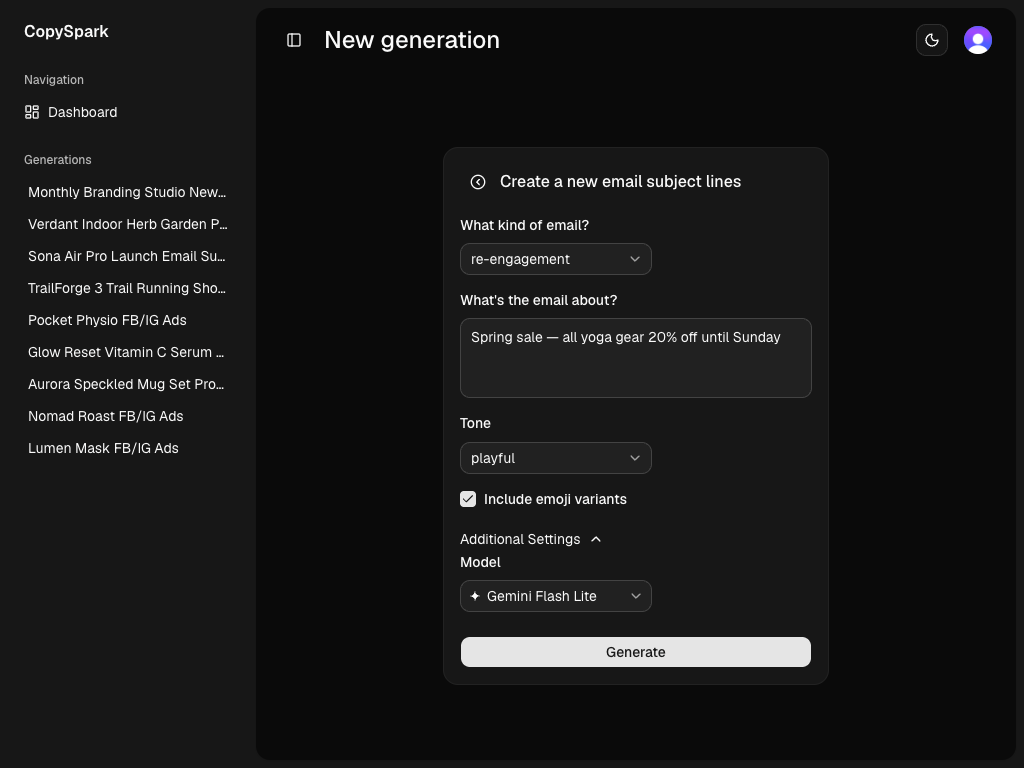
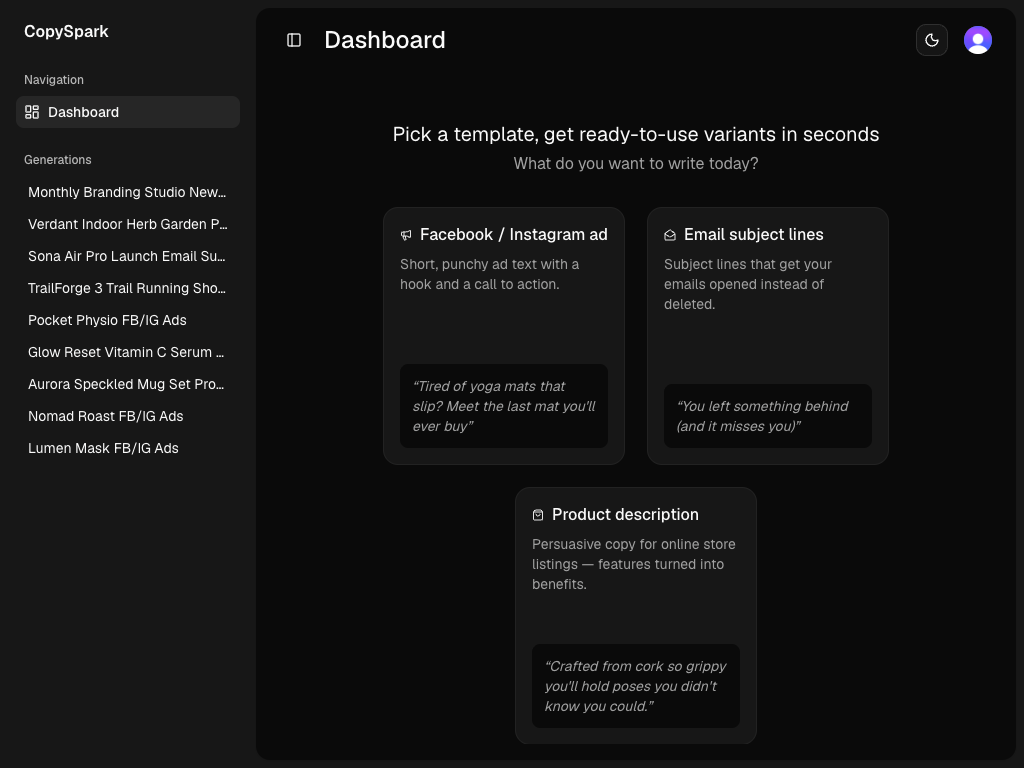
feat: replace dashboard with new generation

diff --git a/src/app/(private)/new/[templateId]/page.tsx b/src/app/(private)/new/[templateId]/page.tsx
@@ -2,6 +2,7 @@ import type { Metadata } from "next";
 import { GenerationFormWrapper } from "@/components/generation/generation-form-wrapper";
 import { CreateGenerationForm } from "@/components/forms";
 import { Template, TemplateId } from "@/constants/templates";
+import { capitalizeFirstLetter } from "@/lib/capitalize-first-letter";
 import { CircleChevronLeft } from "lucide-react";
 import { buttonVariants } from "@/components/ui/button";
 import {
@@ -27,7 +28,7 @@ export async function generateMetadata({
     : {};
 
   return {
-    title,
+    title: title && capitalizeFirstLetter(title),
     description,
   };
 }
@@ -58,7 +59,7 @@ export default async function Page({ params }: PageProps<"/new/[templateId]">) {
           <Tooltip>
             <TooltipTrigger>
               <Link
-                href="/dashboard"
+                href="/new"
                 className={buttonVariants({
                   variant: "ghost",
                   size: "icon-lg",
@@ -73,10 +74,7 @@ export default async function Page({ params }: PageProps<"/new/[templateId]">) {
             </TooltipContent>
           </Tooltip>
 
-          <p>
-            Create a new{" "}
-            <span className="inline-block first-letter:lowercase">{title}</span>
-          </p>
+          <p>New {title}</p>
         </>
       }
     >

diff --git a/src/constants/templates.ts b/src/constants/templates.ts
@@ -39,6 +39,9 @@ function defineTemplate<
   TVariant extends z.ZodObject,
 >(config: {
   id: TTemplateId;
+  // Stored in its mid-sentence form ("email subject lines", but "Facebook /
+  // Instagram ad" — the capital there is the proper noun, not sentence case).
+  // Render standalone titles through `capitalizeFirstLetter`.
   title: string;
   description: string;
   example: string;
@@ -82,7 +85,7 @@ export const Template = {
   }),
   [TemplateId.emailSubject]: defineTemplate({
     id: TemplateId.emailSubject,
-    title: "Email subject lines",
+    title: "email subject lines",
     description:
       "Subject lines that get your emails opened instead of deleted.",
     example: "You left something behind (and it misses you)",
@@ -96,7 +99,7 @@ export const Template = {
   }),
   [TemplateId.productDescription]: defineTemplate({
     id: TemplateId.productDescription,
-    title: "Product description",
+    title: "product description",
     description:
       "Persuasive copy for online store listings — features turned into benefits.",
     example:

diff --git a/src/components/generation/generation-dialog-provider.tsx b/src/components/generation/generation-dialog-provider.tsx
@@ -116,9 +116,10 @@ export function GenerationDialogProvider({
   children: ReactNode;
 }) {
   // The provider spans the whole private group, so a target has to remember which
-  // route opened it — otherwise an open dialog would follow the user to the dashboard.
-  // Tagging and deriving beats clearing it in an effect: a regenerate refreshes the
-  // route without touching the pathname, which is exactly the case that must survive.
+  // route opened it — otherwise an open dialog would follow the user to the initial
+  // page. Tagging and deriving beats clearing it in an effect: a regenerate refreshes
+  // the route without touching the pathname, which is exactly the case that must
+  // survive.
   const pathname = usePathname();
 
   const [storedTarget, setStoredTarget] = useState<

diff --git a/src/app/(private)/new/page.tsx b/src/app/(private)/new/page.tsx
@@ -9,6 +9,7 @@ import {
   CardTitle,
 } from "@/components/ui/card";
 import { Template } from "@/constants/templates";
+import { capitalizeFirstLetter } from "@/lib/capitalize-first-letter";
 import Link from "next/link";
 
 const templates = Object.values(Template);
@@ -33,7 +34,7 @@ export default function Page() {
                   <CardTitle className="flex items-center gap-2">
                     <Icon className="text-primary w-3 h-3 shrink-0" />
 
-                    <p>{template.title}</p>
+                    <p>{capitalizeFirstLetter(template.title)}</p>
                   </CardTitle>
 
                   <CardDescription>{template.description}</CardDescription>

diff --git a/src/components/layout/app-sidebar.tsx b/src/components/layout/app-sidebar.tsx
@@ -57,7 +57,7 @@ export type AppSidebarProps = {
 const routeIconsMap: Record<RouteKey, ReactNode> = {
   signin: <LogInIcon />,
   signup: <UserPlusIcon />,
-  dashboard: <LayoutDashboardIcon />,
+  new: <LayoutDashboardIcon />,
 };
 
 export function AppSidebar() {
@@ -86,7 +86,7 @@ export function AppSidebar() {
 
     if (paramsGenerationId !== generationId) return;
 
-    router.push("/dashboard");
+    router.push("/new");
   };
 
   const renderRouteGroup = (

diff --git a/src/proxy.ts b/src/proxy.ts
@@ -8,7 +8,7 @@ export default clerkMiddleware(async (auth, req) => {
   const { userId } = await auth();
 
   if (userId && (isPublicRoute(req) || isRootRoute(req))) {
-    return NextResponse.redirect(new URL("/dashboard", req.url));
+    return NextResponse.redirect(new URL("/hew", req.url));
   }
 
   if (!isPublicRoute(req)) {

diff --git a/src/lib/capitalize-first-letter.ts b/src/lib/capitalize-first-letter.ts
@@ -1,0 +1,5 @@
+// Template titles are stored in the form they take mid-sentence, so consumers
+// that render one standalone (headings, page metadata) raise the first letter.
+export function capitalizeFirstLetter(text: string) {
+  return text.charAt(0).toUpperCase() + text.slice(1);
+}

diff --git a/src/constants/routes.ts b/src/constants/routes.ts
@@ -10,9 +10,9 @@ export const publicRoutes = {
 } as const;
 
 export const privateRoutes = {
-  dashboard: {
-    title: "Dashboard",
-    url: "/dashboard",
+  new: {
+    title: "New generation",
+    url: "/new",
   },
 } as const;
 

diff --git a/src/app/not-found.tsx b/src/app/not-found.tsx
@@ -10,7 +10,7 @@ export default function NotFound() {
       <p>Page not found</p>
 
       <Link
-        href="/dashboard"
+        href="/new"
         className={buttonVariants({
           variant: "ghost",
         })}

diff --git a/src/app/(private)/generation/page.tsx b/src/app/(private)/generation/page.tsx
@@ -1,5 +1,5 @@
 import { redirect } from "next/navigation";
 
 export default function Page() {
-  redirect("/dashboard");
+  redirect("/new");
 }

diff --git a/README.md b/README.md
@@ -25,9 +25,11 @@ Anthropic, Mistral, and Amazon models are selectable per generation (see
 
 ## Screenshots
 
-| Light                                                            | Dark                                                           |
-| ---------------------------------------------------------------- | -------------------------------------------------------------- |
-| ![Dashboard in light mode](docs/screenshots/light-dashboard.png) | ![Dashboard in dark mode](docs/screenshots/dark-dashboard.png) |
+| Light                                                                                  | Dark                                                                                 |
+| -------------------------------------------------------------------------------------- | ------------------------------------------------------------------------------------ |
+| ![Template picker in light mode](docs/screenshots/light-new-generation.png)            | ![Template picker in dark mode](docs/screenshots/dark-new-generation.png)            |
+| ![Email subject lines form in light mode](docs/screenshots/light-new-email.png)        | ![Email subject lines form in dark mode](docs/screenshots/dark-new-email.png)        |
+| ![Generated variants in light mode](docs/screenshots/light-generation.png)             | ![Generated variants in dark mode](docs/screenshots/dark-generation.png)             |
 
 ## Stack
 
@@ -77,8 +79,8 @@ NEXT_PUBLIC_CLERK_PUBLISHABLE_KEY=
 CLERK_SECRET_KEY=
 NEXT_PUBLIC_CLERK_SIGN_IN_URL=/signin
 NEXT_PUBLIC_CLERK_SIGN_UP_URL=/signup
-NEXT_PUBLIC_CLERK_SIGN_IN_FALLBACK_REDIRECT_URL=/dashboard
-NEXT_PUBLIC_CLERK_SIGN_UP_FALLBACK_REDIRECT_URL=/dashboard
+NEXT_PUBLIC_CLERK_SIGN_IN_FALLBACK_REDIRECT_URL=/new
+NEXT_PUBLIC_CLERK_SIGN_UP_FALLBACK_REDIRECT_URL=/new
 ```
 
 Apply the database schema and start the dev server:
@@ -93,8 +95,9 @@ Other scripts: `pnpm build`, `pnpm start`, `pnpm lint`.
 ## Folder structure
 
 - `src`
-  - `app` — App Router: `(public)` (sign-in/sign-up), `(private)` (dashboard,
-    generation history, new generation), and `api/generate/[templateId]`.
+  - `app` — App Router: `(public)` (sign-in/sign-up), `(private)` (`new` —
+    template picker plus the per-template form at `new/[templateId]`, and
+    `generation` — history), and `api/generate/[templateId]`.
     The root `page.tsx` currently just redirects to `/signin` — a public
     landing page is coming.
   - `components` — `ui` (shadcn on Base UI), plus `generation`, `forms`,
@@ -110,6 +113,8 @@ Other scripts: `pnpm build`, `pnpm start`, `pnpm lint`.
       and a per-template prompt builder that safe-parses its input.
     - `prisma.ts` — Prisma client singleton on `@prisma/adapter-pg`.
     - `cn.ts` — `clsx` + `tailwind-merge` class helper.
+    - `capitalize-first-letter.ts` — template titles are stored in their
+      mid-sentence form, so standalone headings raise the first letter.
   - `schemas`, `constants`, `hooks`, `styles`.
   - `proxy.ts` — Clerk middleware.
 - `prisma` — schema and migrations. `Generation.input` / `Generation.output`
